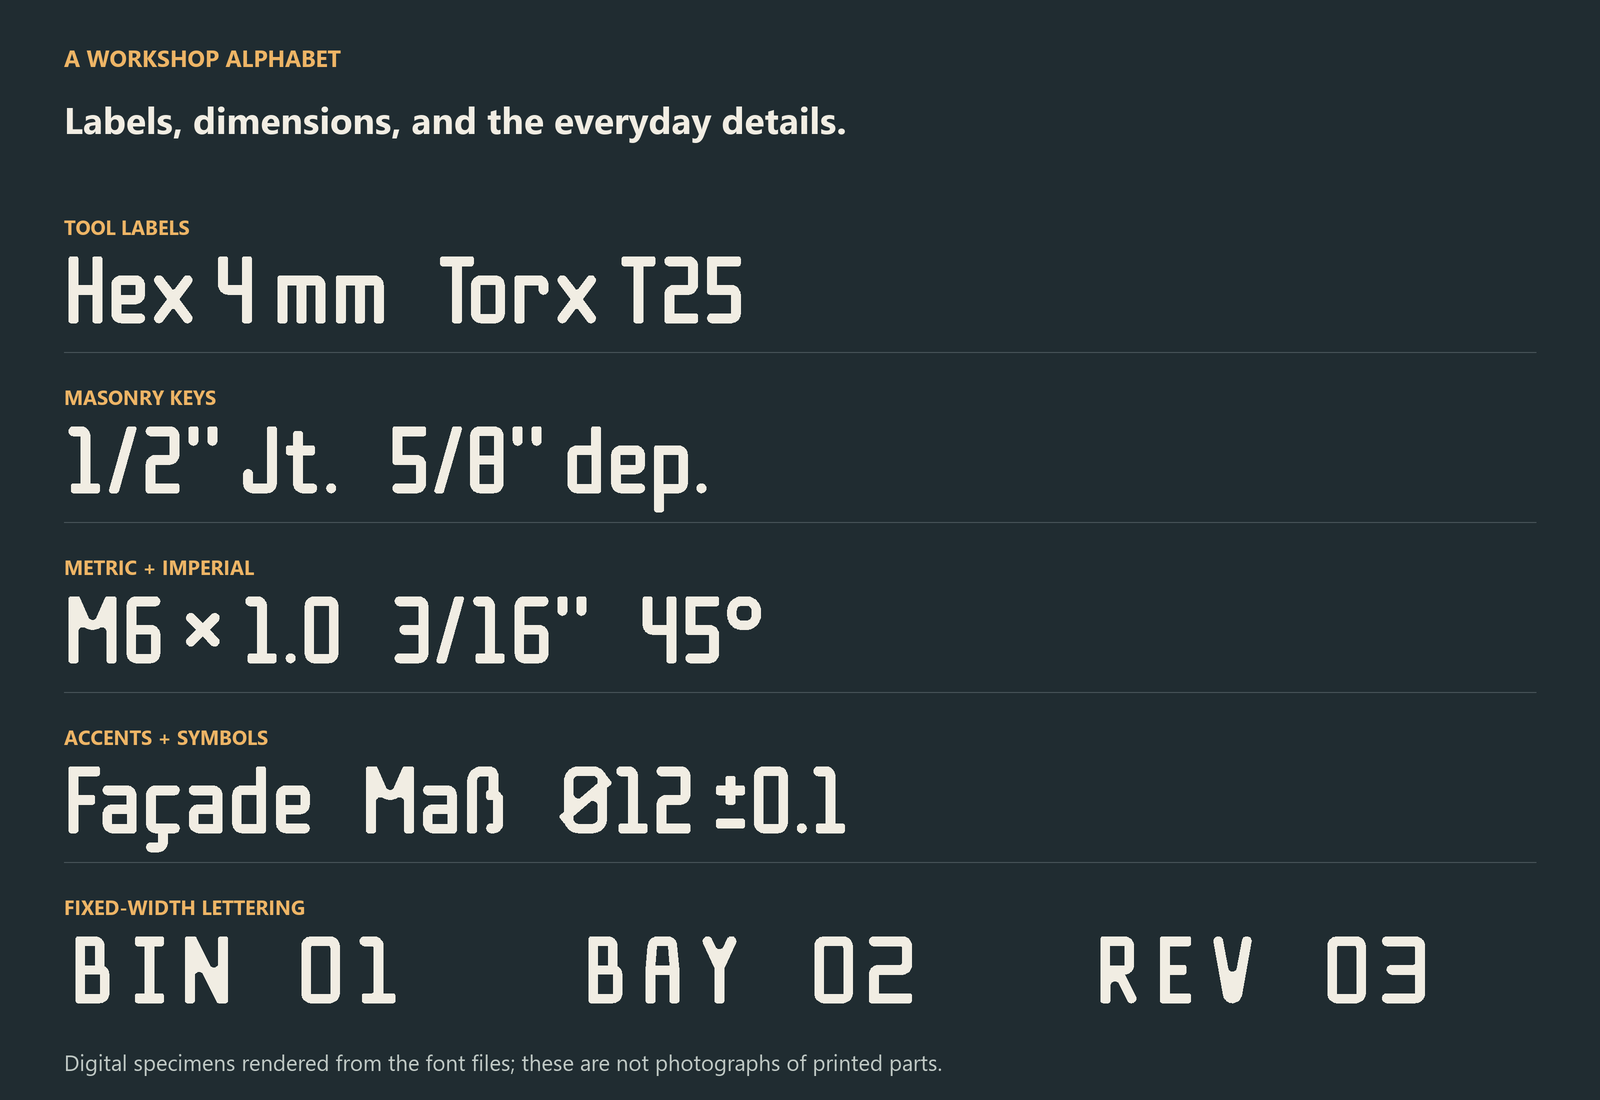
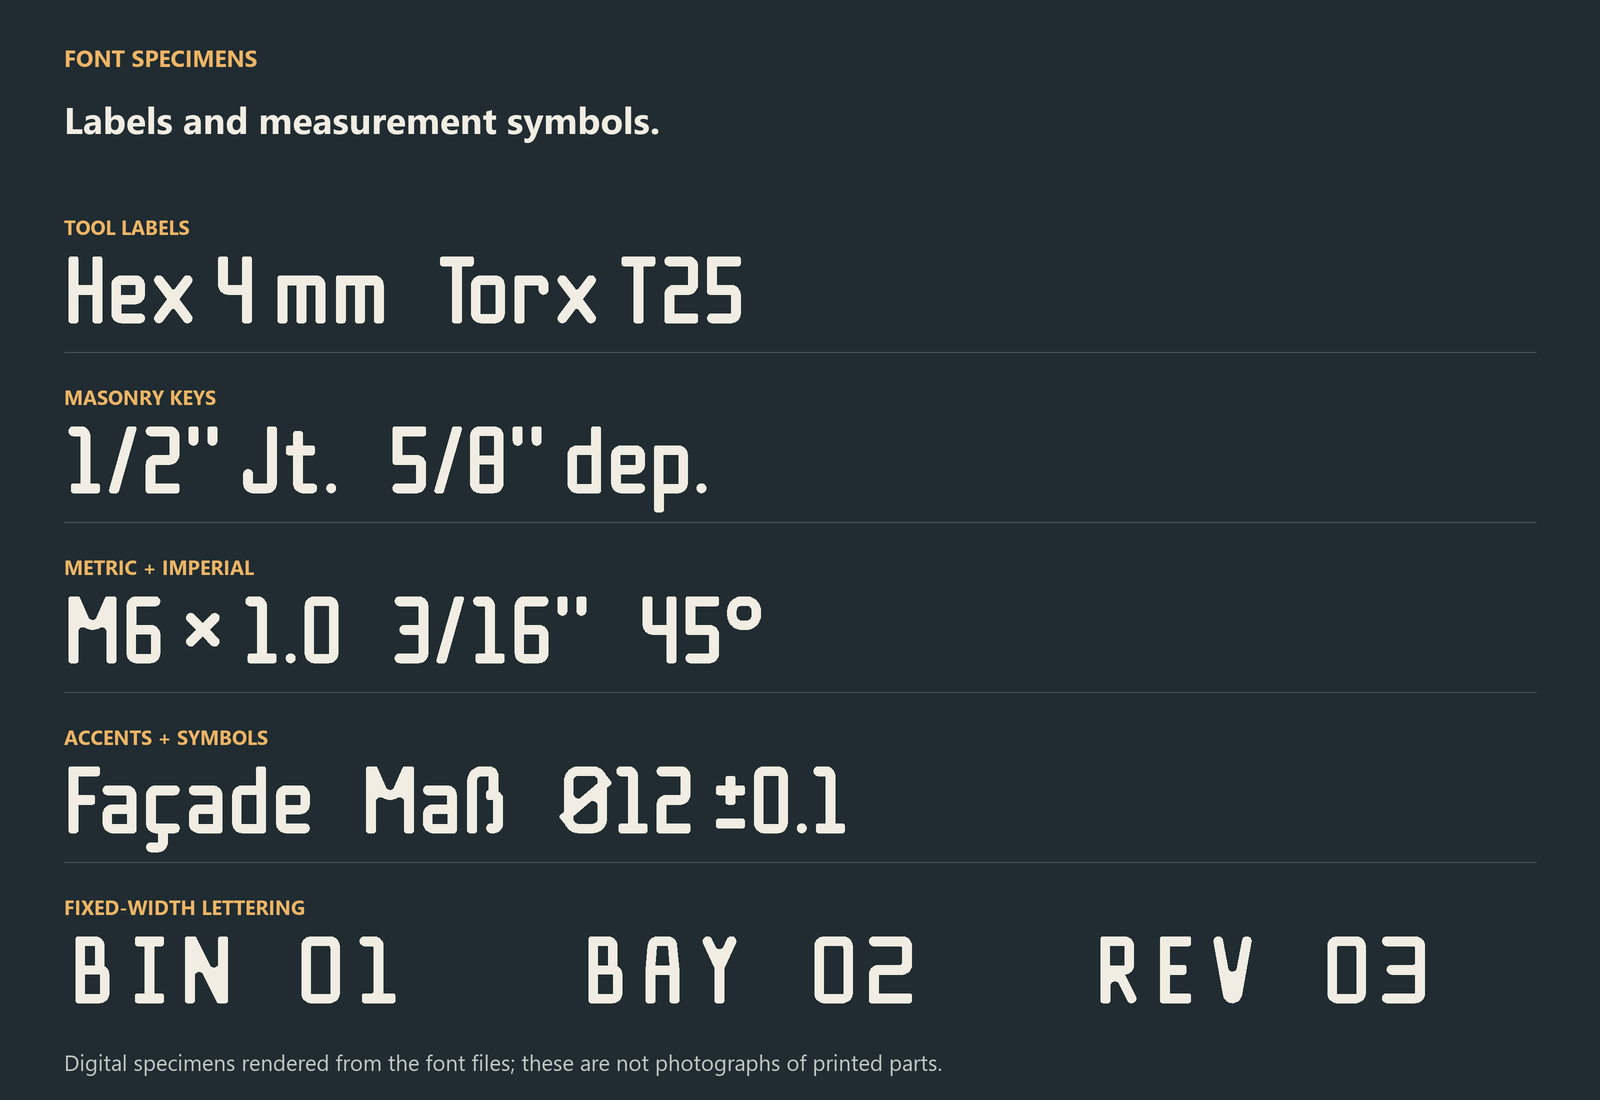
Replace promotional font copy with technical descriptions

Changed region(s): [[0.0938, 0.0927, 0.5312, 0.1236], [0.0312, 0.0309, 0.2188, 0.0618]]

diff --git a/site/template/index.html b/site/template/index.html
@@ -4,7 +4,7 @@
 <meta charset="utf-8">
 <meta name="viewport" content="width=device-width, initial-scale=1, viewport-fit=cover">
 <title>Brewster Technical</title>
-<meta name="description" content="Brewster Technical: an FDM typeface with two-line-width nominal strokes and generous clear spaces.">
+<meta name="description" content="Brewster Technical: an FDM typeface with two-line-width nominal strokes and equal minimum widths for strokes and gaps.">
 <link rel="stylesheet" href="style.css">
 </head>
 <body>
@@ -16,7 +16,7 @@
     </nav>
   </div>
   <div class="wrap">
-    <p class="lede">A typeface for small, readable FDM labels. At the reference size, nominal strokes are two extrusion widths and clear gaps leave at least two widths of room. Joins can be thicker; check your own sliced preview.</p>
+    <p class="lede">A typeface for small, readable FDM labels. At the reference size, nominal strokes are two extrusion widths and clear gaps are at least two extrusion widths. Joins can be thicker; check your own sliced preview.</p>
     <p class="build" id="build-line"></p>
   </div>
 </header>
@@ -25,7 +25,7 @@
   <section id="size" class="panel">
     <div class="panel-head">
       <h2>Size it to your line width</h2>
-      <p class="note">The font is drawn in line widths (w). Set it from the line width your slicer uses for the text. Larger sizes provide more room and may add beads; smaller sizes remove the two-bead margin.</p>
+      <p class="note">The font is drawn in line widths (w). Set it from the line width your slicer uses for the text. Increasing the size widens strokes and gaps and may add extrusion paths. Below the reference size, minimum widths are less than two extrusion widths.</p>
     </div>
     <div class="calc">
       <div class="calc-in">

diff --git a/tools/public_showcase.py b/tools/public_showcase.py
@@ -83,11 +83,11 @@ def hero():
     title = "Brewster Technical"
     width = max(g.bounds[2] for _, g, _ in FONTS["BrewsterTechnical"].layout(title))
     text(d,title,60,338,min(248, 1470 * 20 / width))
-    label(d,68,399,"Ink and negative space.",42,INK,True)
-    label(d,68,463,"1:1 minimum width for strokes and gaps.",27)
+    label(d,68,399,"Equal minimum widths for strokes and gaps.",42,INK,True)
+    label(d,68,463,"Nominal stroke width: 2w. Minimum clear gap: 2w.",27)
     line(d,[(64,550),(1536,550)])
     text(d,'M6 × 1.0   Ø12   ±0.1   45°',64,674,94)
-    for x, title, detail in [(64,"PROPORTIONAL","Everyday labels"),(580,"TABULAR FIGURES","Measurements in columns"),
+    for x, title, detail in [(64,"PROPORTIONAL","Variable letter widths"),(580,"TABULAR FIGURES","Measurements in columns"),
                              (1096,"MONOSPACE","One fixed character width")]:
         label(d,x,768,title,21,ACCENT,True)
         label(d,x,806,detail,23,INK)
@@ -96,8 +96,8 @@ def hero():
 
 def rule():
     im,d = canvas(1600,1000)
-    label(d,64,42,"THE TWO-BEAD RULE",23,ACCENT,True)
-    label(d,64,92,"Design the space, too.",48,INK,True)
+    label(d,64,42,"STROKE AND GAP DIMENSIONS",23,ACCENT,True)
+    label(d,64,92,"Equal minimum widths",48,INK,True)
     reader=FONTS["BrewsterTechnical"]
     geom=reader.outline(reader.cmap[ord("H")])
     x,base,scale=100,775,34
@@ -119,15 +119,15 @@ def rule():
     label(d,740,435,"Joins and crossings may be thicker.",26)
     label(d,740,545,"≥ 2w",78,ACCENT,True)
     label(d,740,653,"Minimum clear space",32,INK,True)
-    label(d,740,710,"Counters, gaps, dots, and accents need room.",26)
+    label(d,740,710,"Clearance inside and between letters.",26)
     label(d,64,948,"w = extrusion line width  /  H outline from the released TTF  /  native design scale",22)
     save(im,"two-bead-rule.png")
 
 
 def labels():
     im,d=canvas(1600,1100,INK)
-    label(d,64,42,"A WORKSHOP ALPHABET",23,"#EEB566",True)
-    label(d,64,94,"Labels, dimensions, and the everyday details.",37,PAPER,True)
+    label(d,64,42,"FONT SPECIMENS",23,"#EEB566",True)
+    label(d,64,94,"Labels and measurement symbols.",37,PAPER,True)
     rows=[("TOOL LABELS",'Hex 4 mm   Torx T25',"BrewsterTechnical"),
           ("MASONRY KEYS",'1/2" Jt.   5/8" dep.',"BrewsterTechnical"),
           ("METRIC + IMPERIAL",'M6 × 1.0   3/16"   45°',"BrewsterTechnicalTab"),

diff --git a/README.md b/README.md
@@ -4,14 +4,13 @@
 
 ![Brewster Technical: three font families for FDM printing, with dimensions and symbols.](showcase/hero.png)
 
-A font can have even strokes and still be hard to print. The strokes fit. The
-small space inside an **e** does not. On a two-colour part, even the “empty” space
-is full of plastic.
+Uniform stroke width does not control the width of the gaps inside and between
+letters. When those gaps are narrower than the strokes, the background material
+can become too thin to print while the strokes are still printable.
 
-Brewster Technical gives the ink and the negative space a **1:1 minimum width**.
-Both start from the extrusion line width. The aim is for the small features to
-reach the print limit together. Large features should not waste space while a
-small gap runs out of room for plastic.
+Brewster Technical uses equal minimum widths for strokes and gaps. Both are
+based on the extrusion line width. This gives the two materials the same design
+minimum and reduces the label size needed to print the smallest features.
 
 Three TrueType families. Free for personal and commercial use.
 
@@ -19,25 +18,24 @@ Three TrueType families. Free for personal and commercial use.
 **[Get the fonts](#get-the-fonts)** · **[Choose a size](#choose-a-print-size)** ·
 **[License](#license)**
 
-## The gaps need plastic too
+## Equal minimum widths for strokes and gaps
 
 Let **w** be one extrusion line width. At the font's reference size:
 
 - A normal stroke is **2w** wide: two lines of plastic side by side.
 - A clear gap is **at least 2w** wide, including the spaces inside letters.
 - Joins can be thicker. Some gaps are wider. The **minimum widths** match;
-  this is not a promise of equal areas of ink and background.
+  the areas of ink and background can differ.
 
-This keeps a narrow gap from setting the size of the whole label. Rounded
-corners and thicker joins also help avoid thin wedges of space that the nozzle
-cannot fill.
+Rounded corners and thicker joins reduce thin wedges in the background material
+that would be narrower than the intended extrusion width.
 
 ![The two-bead rule: an H with 2w strokes and a 3w gap. The minimum clear gap is 2w.](showcase/two-bead-rule.png)
 
-The drawing gives the slicer room to work. Check the sliced preview before you
-print. A font file cannot set your extrusion width for you.
+Use the intended extrusion width when slicing, and check the resulting toolpaths
+before printing.
 
-## What it is for
+## Applications
 
 The first job was small, two-colour labels on masonry repointing keys. The font
 now has upper- and lowercase letters, accents, fractions, arrows, and measurement
@@ -98,14 +96,15 @@ enter that as the text **Height**. If your app sizes text by the em, use
 **8.40 mm**. These are two ways to size the same letters. If the app is unclear,
 convert an **H** to outlines and measure its height.
 
-Larger text gives the slicer more room and may add lines of plastic. Smaller
-text loses the two-line margin. Keep the default line spacing to leave room for
-accents and letters that extend below the baseline.
+Increasing the text size widens both strokes and gaps and may add extrusion
+paths. Below the reference size, their minimum widths are less than two
+extrusion widths. The default line spacing accommodates accents and letters
+that extend below the baseline.
 
 [Size calculator](https://thereprocase.github.io/brewster-technical/#size) ·
 [Print settings and sizing details](docs/PRINTING.md)
 
-## What the slicer sees
+## Recorded toolpaths
 
 ![Recorded OrcaSlicer Arachne toolpaths for letters and symbols.](showcase/6-sliced.png)
 
@@ -123,13 +122,12 @@ leave gaps, or cross an edge. See the [design specification](docs/SPEC.md) and
 
 The fonts use **SIL Open Font License 1.1**, with the family names reserved.
 
-- **Use them in commercial work.** Sell the parts, artwork, or documents you
-  make. Those outputs do not need the OFL or a credit line.
-- **Share and change the fonts.** Keep the copyright notice and OFL with any
+- **Commercial use.** You may sell parts, artwork, or documents made with the fonts. Those outputs do not need the OFL or a credit line.
+- **Redistribution and modification.** Keep the copyright notice and OFL with any
   font files you distribute. Changed fonts must also use the OFL.
-- **Rename changed versions.** To use the Reserved Font Names for a changed
+- **Reserved names.** To use the Reserved Font Names for a changed
   version, you need written permission.
-- **Do not sell the font by itself.** The OFL allows it to be bundled with software.
+- **Font sales.** The font cannot be sold by itself. The OFL allows it to be bundled with software.
 
 Small fixes and large changes are both allowed. If you build on this font,
 please say where it came from and what you changed. That is a request; the OFL
